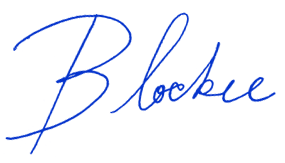
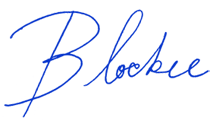
changed signature size to fit iphone better

diff --git a/index.html b/index.html
@@ -29,7 +29,7 @@
     <p>Have you ever wondered what the street you live on would look like with a bike lane? How about a playground or a community garden instead of that parking lot? Did you then wonder what it would look like if all of those things sparkled?</p>
     <p>To ponder these questions and more please vist us via another device.</p>
     <p>Thanks,</p>
-<p><img src="assets/img/mobile/blockeesig.png" width="285" height="163"></p>
+<p><img src="assets/img/mobile/blockeesig.png" width="216" height="124"></p>
   </div>
   
   
